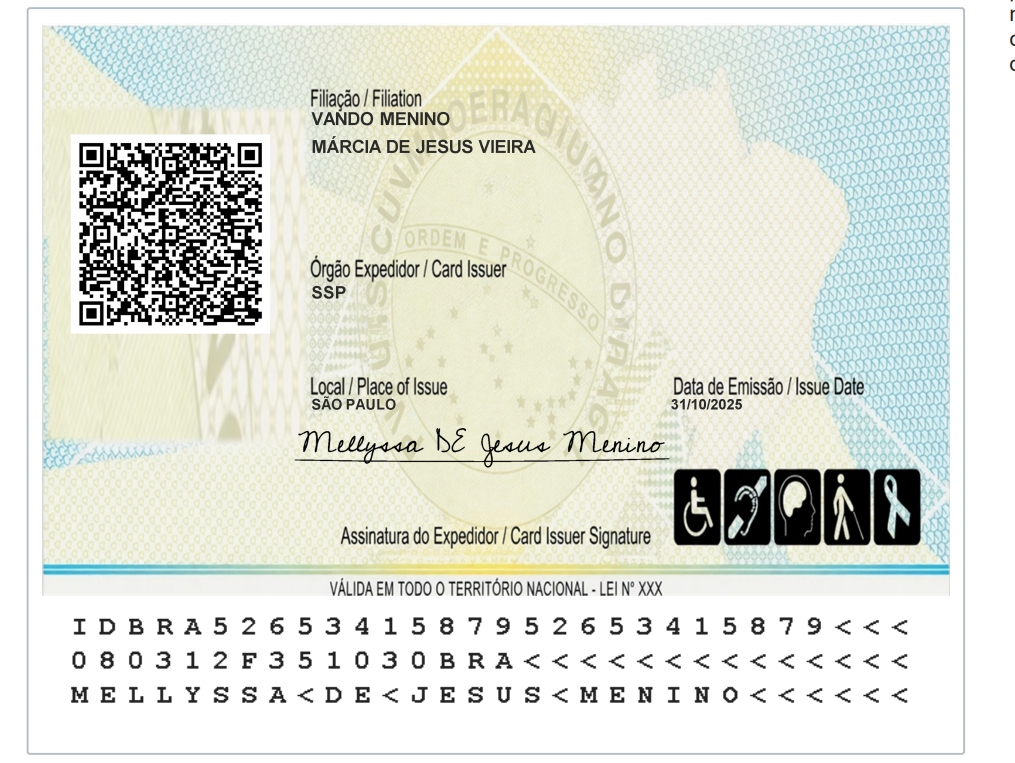
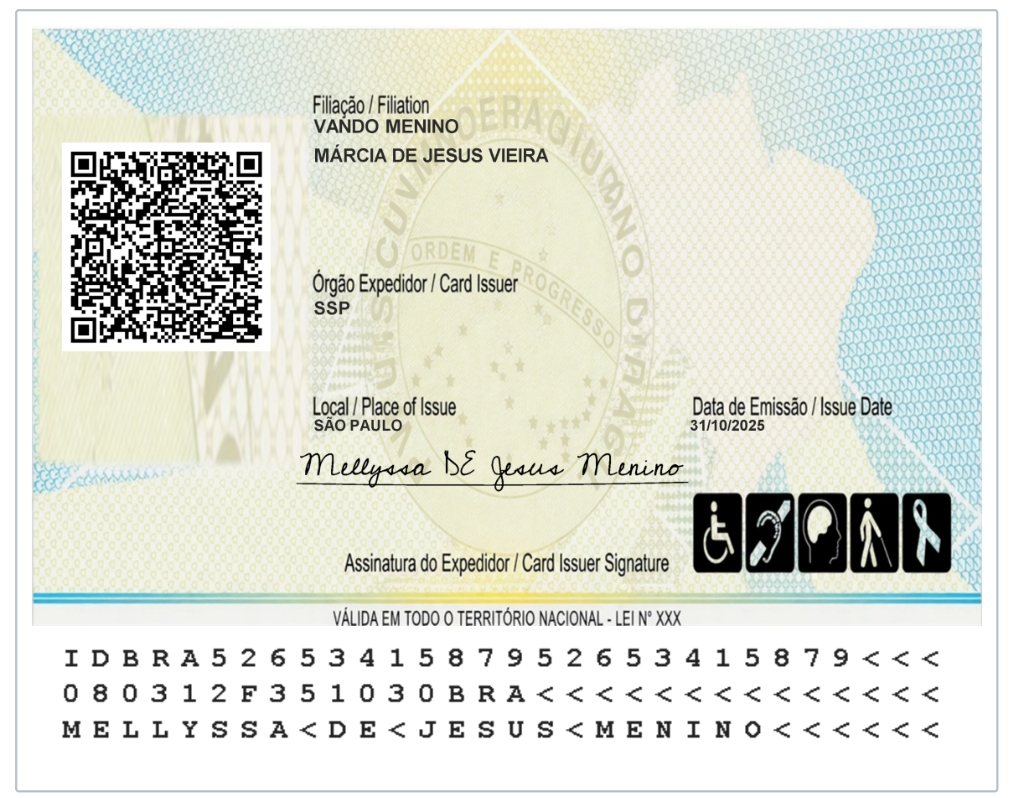
fix(rg): alinhar verso com proporcoes 1024x798 identicas a referencia, eliminar ghosting e corrigir MRZ

Changed region(s): [[0.0, 0.0, 0.9773, 0.9948], [0.1833, 0.5426, 0.2443, 0.5727]]

diff --git a/criar-rg.html b/criar-rg.html
@@ -460,8 +460,13 @@
             flex-shrink: 0;
         }
         #viewVersoContainer {
-            width: 1015px !important;
-            height: 763px !important;
+            width: 1024px !important;
+            height: 798px !important;
+            background-color: #ffffff;
+            background-size: 100% 100%;
+            background-repeat: no-repeat;
+            background-position: center;
+            background-image: url('assets/rg_verso_template_clean.png');
         }
 
         /* Elementos Dinâmicos Transparentes sobre o Fundo Guilhoche */
@@ -531,13 +536,13 @@
         #cfNat { top: 503px; left: 334px; width: 250px; font-size: 14.5px; text-transform: uppercase; }
         #cfVal { top: 503px; left: 597px; width: 140px; font-size: 14.5px; }
 
-        /* Posições do Verso (Escala 1015x763) */
+        /* Posições do Verso (Escala Oficial 1024x798) */
         #cvQrBox {
             position: absolute;
-            top: 140px;
-            left: 72px;
-            width: 198px;
-            height: 198px;
+            top: 148px;
+            left: 62px;
+            width: 208px;
+            height: 208px;
             background: #ffffff;
             display: flex;
             align-items: center;
@@ -546,37 +551,37 @@
             padding: 0;
             box-sizing: border-box;
         }
-        #cvQrBox img, #cvQrBox canvas { height: 198px !important; width: 198px !important; display: block; }
-        #cvPai { top: 111px; left: 308px; width: 550px; font-size: 14.5px; font-weight: 700; text-transform: uppercase; }
-        #cvMae { top: 137px; left: 308px; width: 550px; font-size: 14.5px; font-weight: 700; text-transform: uppercase; }
-        #cvOrgao { top: 283px; left: 308px; width: 200px; font-size: 14px; font-weight: 700; text-transform: uppercase; }
-        #cvLocal { top: 397px; left: 308px; width: 280px; font-size: 13.5px; font-weight: 700; text-transform: uppercase; }
-        #cvEmissao { top: 397px; left: 660px; width: 180px; font-size: 13.5px; font-weight: 700; }
+        #cvQrBox img, #cvQrBox canvas { height: 208px !important; width: 208px !important; display: block; }
+        #cvPai { top: 120px; left: 314px; width: 550px; font-size: 15px; font-weight: 700; color: #111; text-transform: uppercase; letter-spacing: 0.2px; }
+        #cvMae { top: 148px; left: 314px; width: 550px; font-size: 15px; font-weight: 700; color: #111; text-transform: uppercase; letter-spacing: 0.2px; }
+        #cvOrgao { top: 302px; left: 315px; width: 200px; font-size: 14px; font-weight: 700; color: #111; text-transform: uppercase; letter-spacing: 0.2px; }
+        #cvLocal { top: 420px; left: 315px; width: 280px; font-size: 14px; font-weight: 700; color: #111; text-transform: uppercase; letter-spacing: 0.2px; }
+        #cvEmissao { top: 420px; left: 691px; width: 200px; font-size: 14px; font-weight: 700; color: #111; letter-spacing: 0.2px; }
         #cvSigBox {
             position: absolute;
-            top: 418px;
-            left: 290px;
-            width: 380px;
-            height: 46px;
+            top: 442px;
+            left: 297px;
+            width: 390px;
+            height: 41px;
             display: flex;
             align-items: flex-end;
             justify-content: center;
-            border-bottom: 1.5px solid #111;
             z-index: 5;
+            background: transparent;
         }
         #cvSigImg { max-width: 100%; max-height: 100%; object-fit: contain; display: block; }
-        #cvSigText { display: none; font-family: 'Homemade Apple', cursive; font-size: 24px; color: #000; font-weight: 600; padding-bottom: 4px; }
+        #cvSigText { display: none; font-family: 'Homemade Apple', cursive; font-size: 24px; color: #111; font-weight: 600; line-height: 1; margin: 0; }
         #cvMrz {
             position: absolute;
-            top: 618px;
-            left: 56px;
+            top: 649px;
+            left: 64px;
             width: 880px;
-            font-family: Consolas, 'Courier New', monospace;
-            font-size: 19px;
-            line-height: 30px;
-            letter-spacing: 1px;
+            font-family: var(--font-mrz), 'Share Tech Mono', Consolas, monospace;
+            font-size: 18.5px;
+            line-height: 35.5px;
+            letter-spacing: 0.2px;
             font-weight: 700;
-            color: #000000;
+            color: #111111;
             white-space: pre;
             z-index: 5;
         }
@@ -886,8 +891,8 @@
                         </div>
                     </div>
 
-                    <!-- ─── 2. PREVIEW: CARTÃO VERSO ULTRA-HD (989px × 685px) ─── -->
-                    <div id="viewVersoContainer" class="card-cin-view" style="display:block; margin-top:20px; height:798px; background-image: url('assets/rg_verso_template_clean.png');">
+                    <!-- ─── 2. PREVIEW: CARTÃO VERSO ULTRA-HD (1024px × 798px) ─── -->
+                    <div id="viewVersoContainer" class="card-cin-view" style="display:block; margin-top:20px;">
                         <!-- QR Code Oficial -->
                         <div id="cvQrBox">
                             <div id="cvQrInner" style="width:100%; height:100%; display:flex; align-items:center; justify-content:center;"></div>
@@ -902,14 +907,14 @@
 
                         <!-- Assinatura do Expedidor -->
                         <div id="cvSigBox">
-                            <img id="cvSigImg" src="assets/mellyssa_sig.png" alt="Assinatura">
+                            <img id="cvSigImg" src="assets/mellyssa_sig_clean.png" alt="Assinatura">
                             <span id="cvSigText"></span>
                         </div>
 
                         <!-- MRZ 3 Linhas -->
-                        <div id="cvMrz">IDBRA 52653415879 52653415879<<<
-080312F351030BRA<<<<<<<<<<<
-MENINO<<MELLYSSA<DE<JESUS<<<<<</div>
+                        <div id="cvMrz">I D B R A 5 2 6 5 3 4 1 5 8 7 9 5 2 6 5 3 4 1 5 8 7 9 &lt; &lt; &lt;
+0 8 0 3 1 2 F 3 5 1 0 3 0 B R A &lt; &lt; &lt; &lt; &lt; &lt; &lt; &lt; &lt; &lt; &lt; &lt; &lt;
+M E L L Y S S A &lt; D E &lt; J E S U S &lt; M E N I N O &lt; &lt; &lt; &lt; &lt; &lt;</div>
                     </div>
 
                     <!-- ─── 3. PREVIEW: FOLHA A4 OFICIAL COMPLETA GOV.BR (794px × 1123px) ─── -->
@@ -1092,31 +1097,19 @@ MENINO<<MELLYSSA<DE<JESUS<<<<<</div>
             // QR Code do Verso
             renderQrVerso(cpf);
 
-            const isVersoDefault = (pai.trim().toUpperCase() === DEFAULT_MELLYSSA.pai.toUpperCase() &&
-                                    mae.trim().toUpperCase() === DEFAULT_MELLYSSA.mae.toUpperCase() &&
-                                    orgao.trim().toUpperCase() === DEFAULT_MELLYSSA.orgao.toUpperCase() &&
-                                    local.trim().toUpperCase() === DEFAULT_MELLYSSA.local.toUpperCase() &&
-                                    emissao.trim() === DEFAULT_MELLYSSA.emissao &&
-                                    cpf.trim() === DEFAULT_MELLYSSA.cpf &&
-                                    !isUserCustomSig);
-
+            // Verso sempre usa template ultra-limpo e campos dinâmicos cirúrgicos
             const elVerso = document.getElementById('viewVersoContainer');
             if (elVerso) {
-                if (isVersoDefault) {
-                    elVerso.style.backgroundImage = "url('assets/rg_verso_referencia_usuario.jpg')";
-                    document.querySelectorAll('#viewVersoContainer .dyn-cin-field, #cvQrBox, #cvSigBox, #cvMrz').forEach(el => el.style.opacity = '0');
-                } else {
-                    elVerso.style.backgroundImage = "url('assets/rg_verso_template_clean.png')";
-                    document.querySelectorAll('#viewVersoContainer .dyn-cin-field, #cvQrBox, #cvSigBox, #cvMrz').forEach(el => el.style.opacity = '1');
-                }
+                elVerso.style.backgroundImage = "url('assets/rg_verso_template_clean.png')";
+                document.querySelectorAll('#viewVersoContainer .dyn-cin-field, #cvQrBox, #cvSigBox, #cvMrz').forEach(el => el.style.opacity = '1');
             }
 
             // Atualiza assinatura em texto se não for personalizada
             if (!isUserCustomSig) {
                 const sImg = document.getElementById('cfSigImg');
                 const sTxt = document.getElementById('cfSigText');
-                if (nome.toUpperCase() === DEFAULT_MELLYSSA.nome.toUpperCase()) {
-                    sImg.src = 'assets/mellyssa_sig.png';
+                if (nome.trim().toUpperCase() === DEFAULT_MELLYSSA.nome.toUpperCase()) {
+                    sImg.src = 'assets/mellyssa_sig_clean.png';
                     sImg.style.display = 'block';
                     sTxt.style.display = 'none';
                 } else {
@@ -1148,7 +1141,7 @@ MENINO<<MELLYSSA<DE<JESUS<<<<<</div>
 
         // Geração Oficial do MRZ 3 Linhas ICAO Doc 9303 TD1
         function generateMrz(cpf, nome, nasc, sexo, val) {
-            const cleanCpf = (cpf || '').replace(/\D/g, '').padEnd(11, '0');
+            const cleanCpf = (cpf || '526.534.158-79').replace(/\D/g, '').padEnd(11, '0');
             let nascMrz = '080312';
             if (nasc && nasc.includes('/')) {
                 const p = nasc.split('/');
@@ -1169,9 +1162,9 @@ MENINO<<MELLYSSA<DE<JESUS<<<<<</div>
                 .split(/\s+/)
                 .join('<');
 
-            const l1Raw = `IDBRA ${cleanCpf} ${cleanCpf}<<<`.slice(0, 31);
-            const l2Raw = `${nascMrz}${sexMrz}${valMrz}BRA<<<<<<<<<<<`.slice(0, 30);
-            const l3Raw = `${cleanNome.padEnd(30, '<').slice(0, 30)}`;
+            const l1Raw = ('IDBRA' + cleanCpf + cleanCpf + '<<<').slice(0, 30);
+            const l2Raw = (nascMrz + sexMrz + valMrz + 'BRA<<<<<<<<<<<<<').slice(0, 30);
+            const l3Raw = (cleanNome + '<<<<<<<<<<<<<<<<<<<<<<<<<<<<<<').slice(0, 30);
 
             const formatMrzLine = (s) => s.split('').join(' ');
             return `${formatMrzLine(l1Raw)}\n${formatMrzLine(l2Raw)}\n${formatMrzLine(l3Raw)}`;
@@ -1187,8 +1180,8 @@ MENINO<<MELLYSSA<DE<JESUS<<<<<</div>
             if (window.QRCode) {
                 new QRCode(inner, {
                     text: qrUrl,
-                    width: 198,
-                    height: 198,
+                    width: 208,
+                    height: 208,
                     colorDark: '#000000',
                     colorLight: '#ffffff',
                     correctLevel: QRCode.CorrectLevel.M
@@ -1344,24 +1337,24 @@ MENINO<<MELLYSSA<DE<JESUS<<<<<</div>
                 const elVerso = document.getElementById('viewVersoContainer');
 
                 const canvasFrente = await captureElementClean(elFrente, 989, 685);
-                const canvasVerso = await captureElementClean(elVerso, 1015, 763);
+                const canvasVerso = await captureElementClean(elVerso, 1024, 798);
 
                 const { jsPDF } = window.jspdf;
                 // Cria PDF com medidas exatas proporcionais do cartão em landscape
                 const pdf = new jsPDF({
                     orientation: 'portrait',
                     unit: 'px',
-                    format: [1055, 1530],
+                    format: [1064, 1560],
                     hotfixes: ['px_scaling']
                 });
 
                 // Folha única: frente em cima, verso embaixo
                 pdf.setFillColor(255, 255, 255);
-                pdf.rect(0, 0, 1055, 1530, 'F');
+                pdf.rect(0, 0, 1064, 1560, 'F');
                 const imgFrente = canvasFrente.toDataURL('image/jpeg', 0.98);
-                pdf.addImage(imgFrente, 'JPEG', 33, 25, 989, 685);
+                pdf.addImage(imgFrente, 'JPEG', 37, 25, 989, 685);
                 const imgVerso = canvasVerso.toDataURL('image/jpeg', 0.98);
-                pdf.addImage(imgVerso, 'JPEG', 20, 735, 1015, 763);
+                pdf.addImage(imgVerso, 'JPEG', 20, 735, 1024, 798);
 
                 const cpfClean = (document.getElementById('inpCpf').value || 'CIN').replace(/\D/g, '');
                 const fileName = `CIN_Cartao_${cpfClean}.pdf`;
@@ -1399,15 +1392,18 @@ MENINO<<MELLYSSA<DE<JESUS<<<<<</div>
             }
         }
 
-        // 3. BAIXAR IMAGEM PNG ULTRA-HD DO CARTÃO FRENTE
+        // 3. BAIXAR IMAGEM PNG ULTRA-HD DO CARTÃO
         async function baixarImagemPng() {
             try {
-                const elFrente = document.getElementById('viewFrenteContainer');
-                const canvas = await captureElementClean(elFrente, 989, 685);
+                const isVerso = (currentActiveTab === 'verso');
+                const el = isVerso ? document.getElementById('viewVersoContainer') : document.getElementById('viewFrenteContainer');
+                const w = isVerso ? 1024 : 989;
+                const h = isVerso ? 798 : 685;
+                const canvas = await captureElementClean(el, w, h);
                 const a = document.createElement('a');
                 const cpfClean = (document.getElementById('inpCpf').value || 'CIN').replace(/\D/g, '');
                 a.href = canvas.toDataURL('image/png');
-                a.download = `CIN_Frente_${cpfClean}.png`;
+                a.download = `CIN_${isVerso ? 'Verso' : 'Frente'}_${cpfClean}.png`;
                 a.click();
             } catch(e) {
                 console.error('Erro ao baixar PNG:', e);
